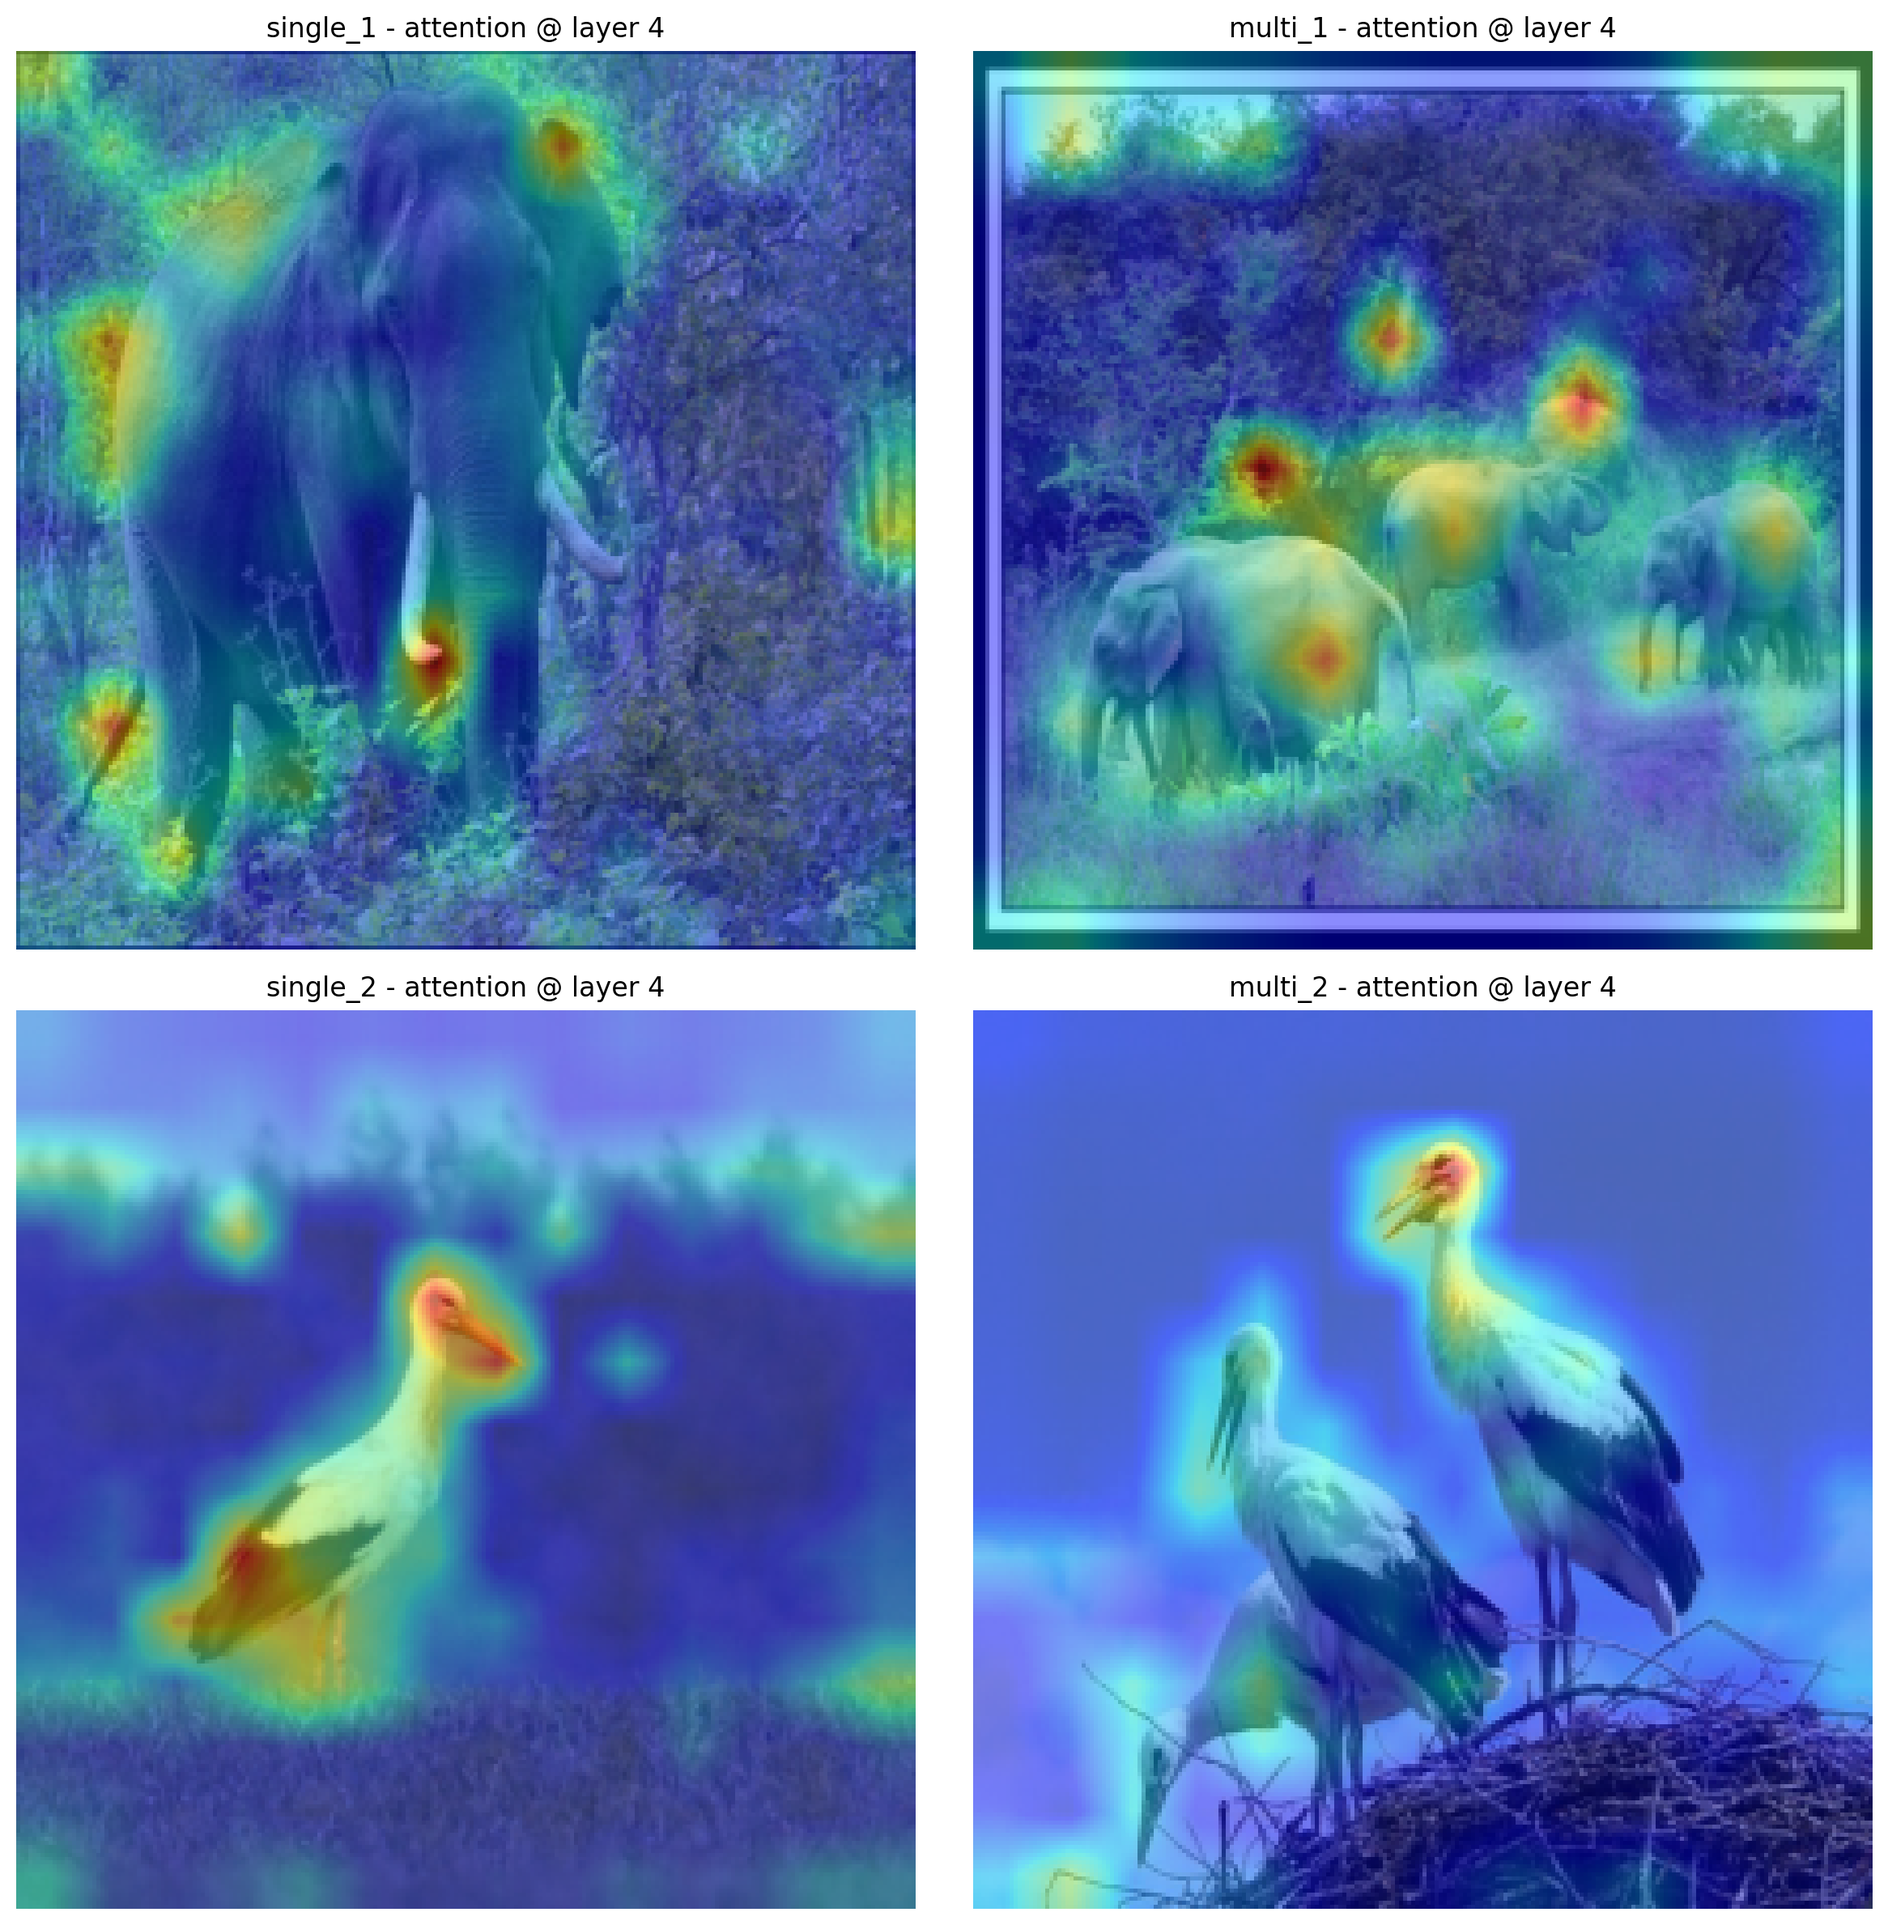
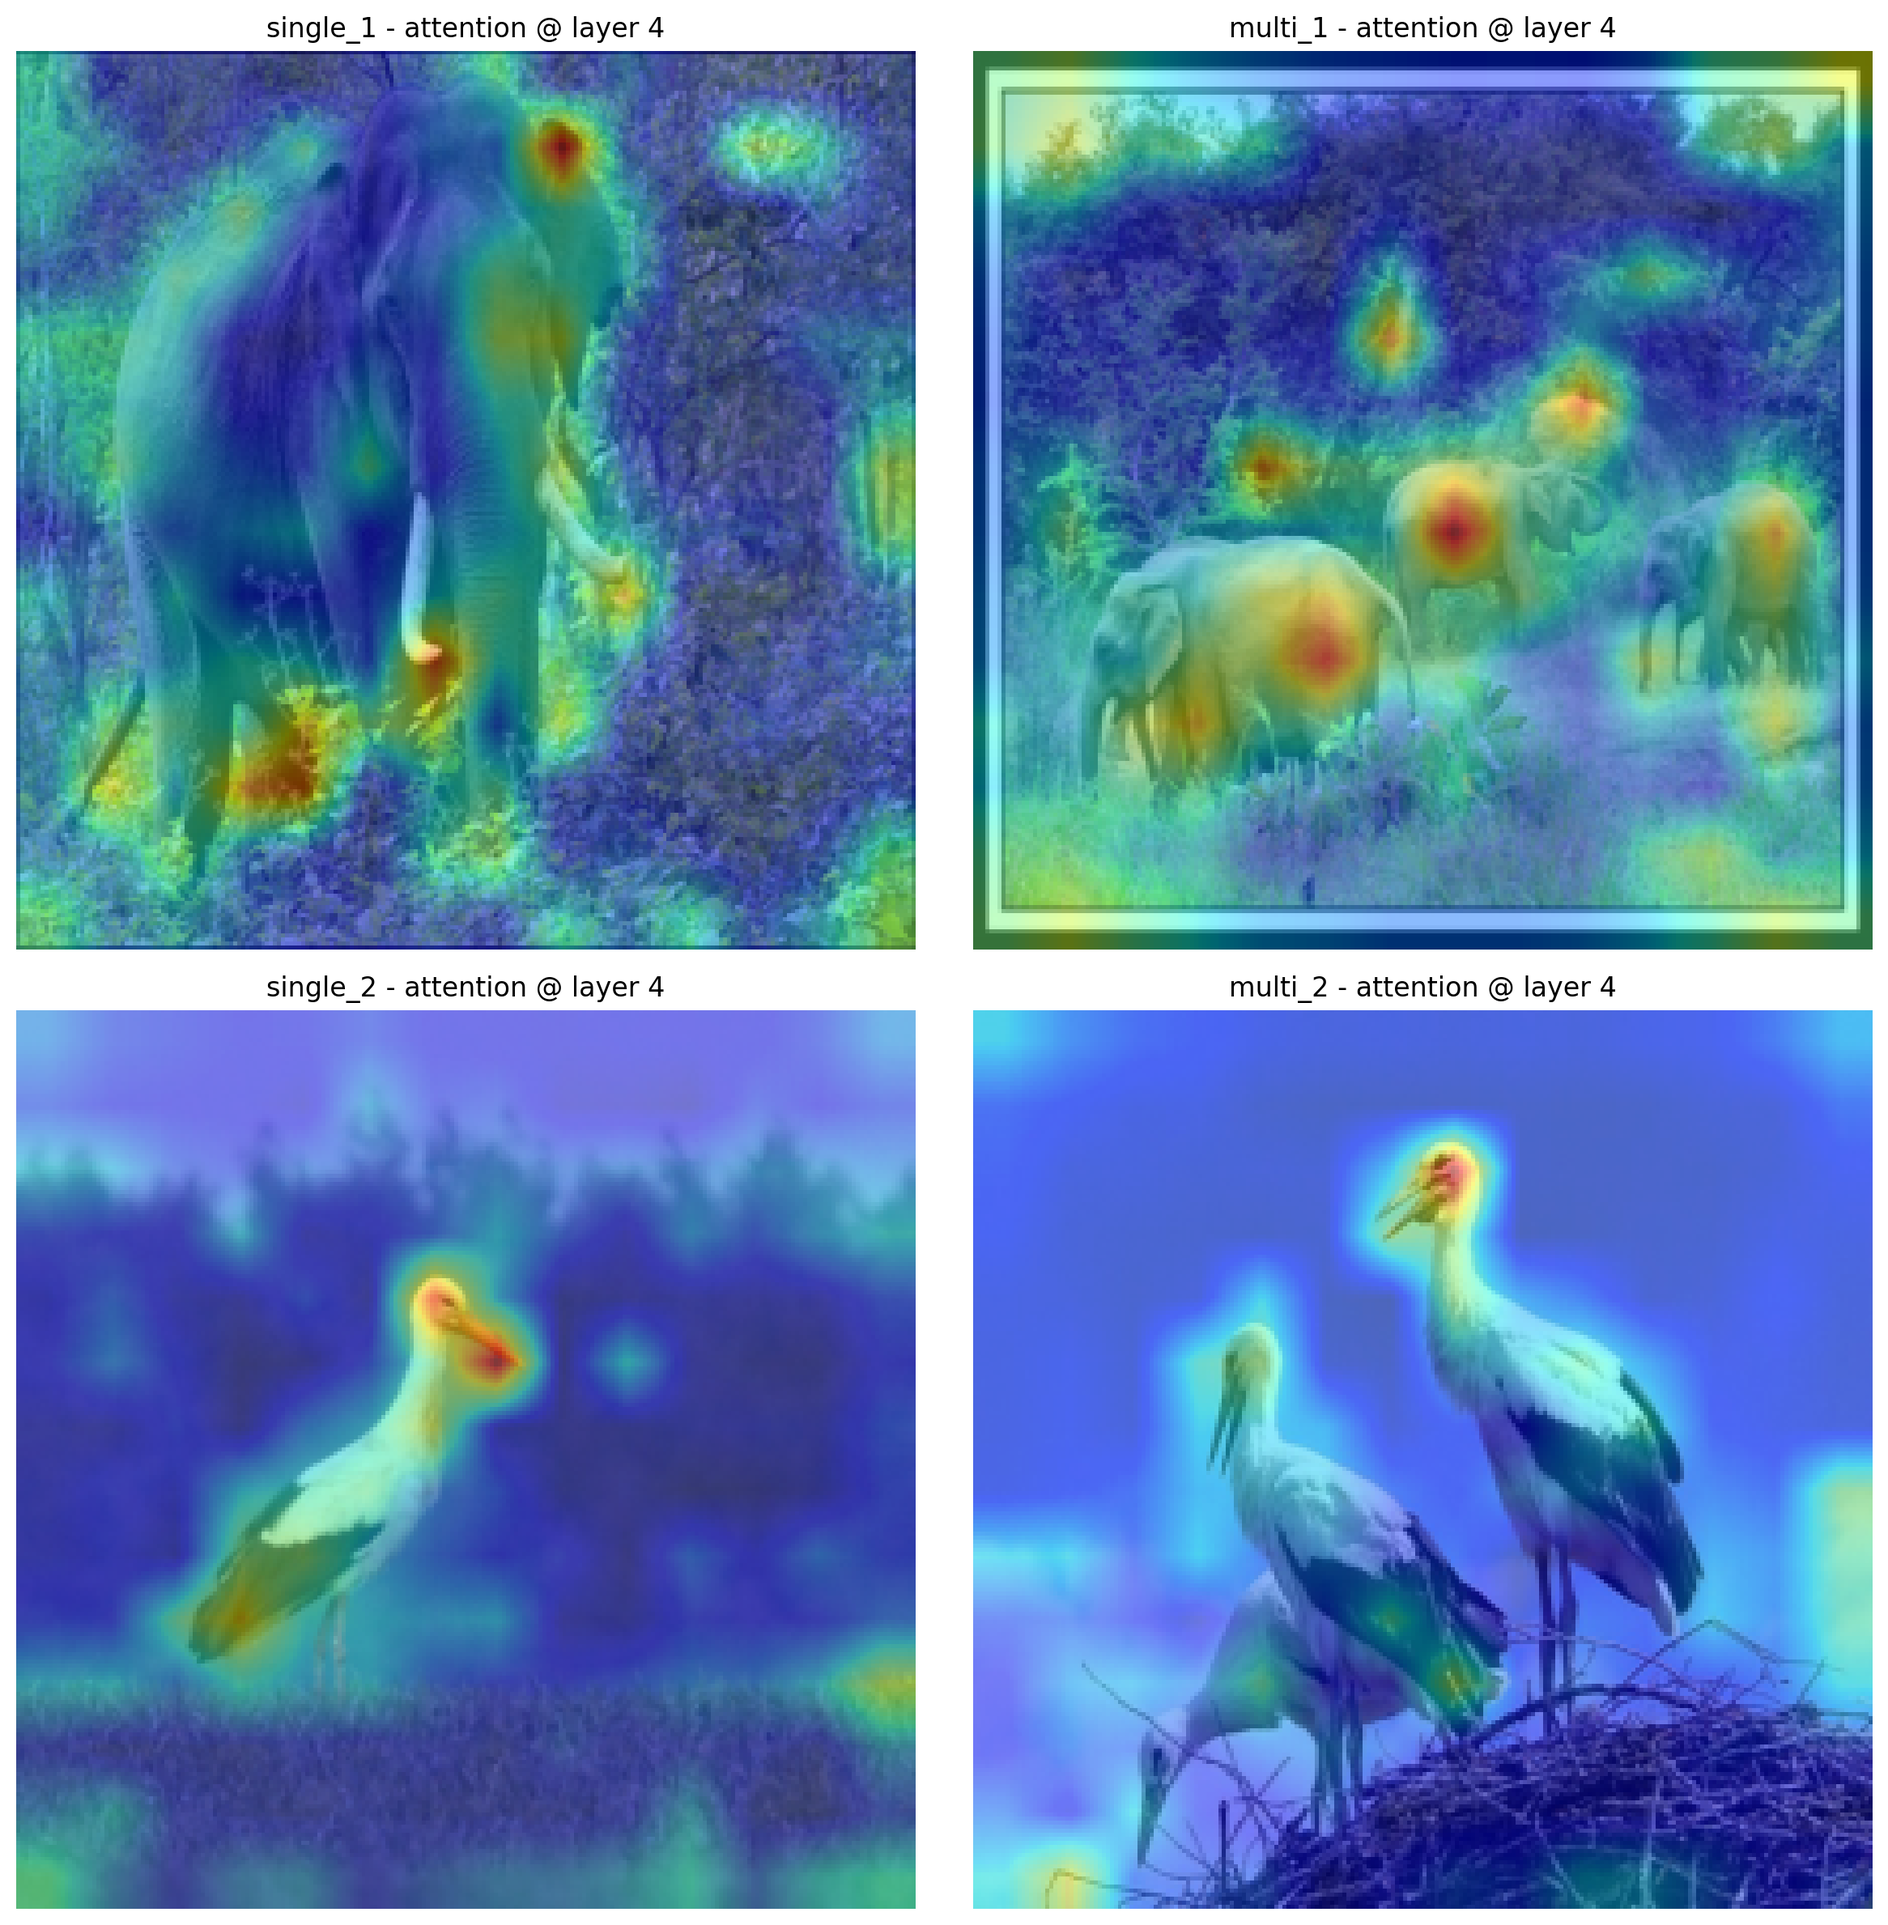
updated 186 epoch vis

diff --git a/src/boundary_visual_IN.py b/src/boundary_visual_IN.py
@@ -427,8 +427,8 @@ def main():
 
 
     
-    ckpt_path = "/fs/scratch/PAS2836/yusenpeng_checkpoint/imagenet_DRIP_4x_half_LR_no_warmup/model_121.pth"
-    #ckpt_path = "/fs/scratch/PAS2836/yusenpeng_checkpoint/imagenet_DRIP_4x_half_LR_no_warmup_smart_init/model_80.pth"
+    ckpt_path = "/fs/scratch/PAS2836/yusenpeng_checkpoint/imagenet_DRIP_4x_half_LR_no_warmup/model_186.pth"
+    #ckpt_path = "/fs/scratch/PAS2836/yusenpeng_checkpoint/imagenet_DRIP_4x_half_LR_no_warmup_smart_init/model_179.pth"
 
 
 

diff --git a/README.md b/README.md
@@ -59,7 +59,7 @@ examples:
 | ---------- | -------------- |
 | imagenet_DRIP_4x_01_warmup2 | model_299.pth |
 | ![alt text](/src/boundary_vis/w2_4x_boundaries.png) | ![alt text](/src/boundary_vis/w2_4x_attention.png) |
-| imagenet_DRIP_4x_half_LR_no_warmup | model_120.pth |
+| imagenet_DRIP_4x_half_LR_no_warmup | model_186.pth |
 | ![alt text](/src/boundary_vis/dtpvit_single_multi_overlay.png) | ![alt text](/src/boundary_vis/dtpvit_single_multi_attention_overlay.png) |
 
 
